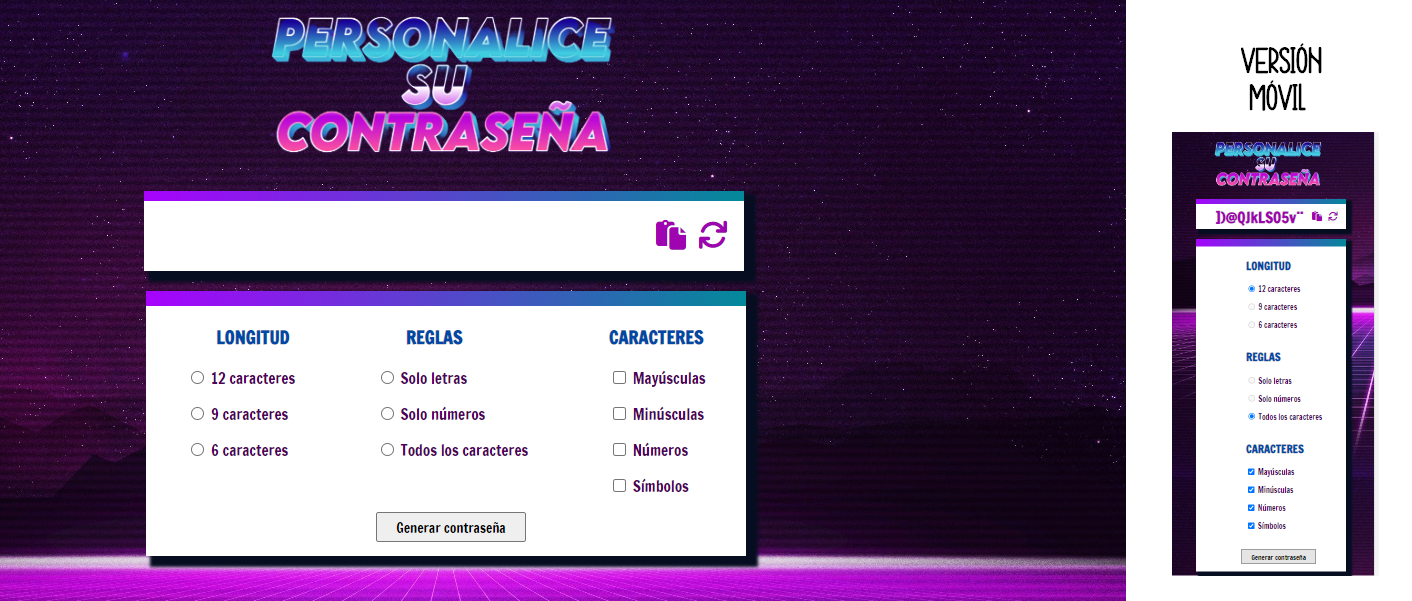
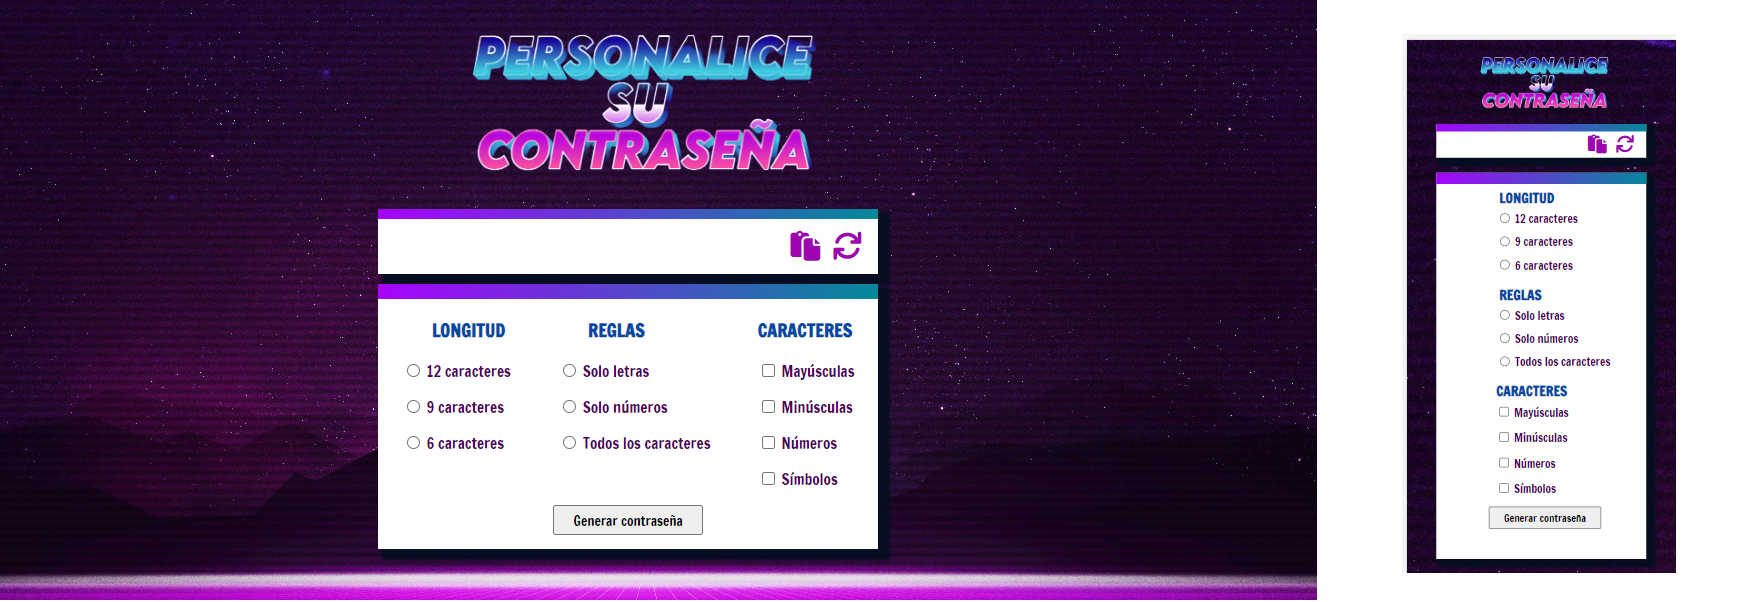
imagenes de readme

diff --git a/css/style.css b/css/style.css
@@ -184,7 +184,7 @@ i {
     background-size: auto;
   }
   img {
-    margin-left: 20%;
+    margin-left: 22%;
     width: 200px;
     height: 100px;
   }
@@ -192,7 +192,7 @@ i {
     font-size: 30px;
   }
   #cuadro {
-    margin-left: 3%;
+    margin-left: 9%;
     margin-bottom: 10px;
     width: 280px;
     height: 35px;
@@ -200,7 +200,7 @@ i {
   #container {
     width: 280px;
     height: 500px;
-    margin-left: 3%;
+    margin-left: 9%;
   }
   .btn-copia,
   .recargar,
